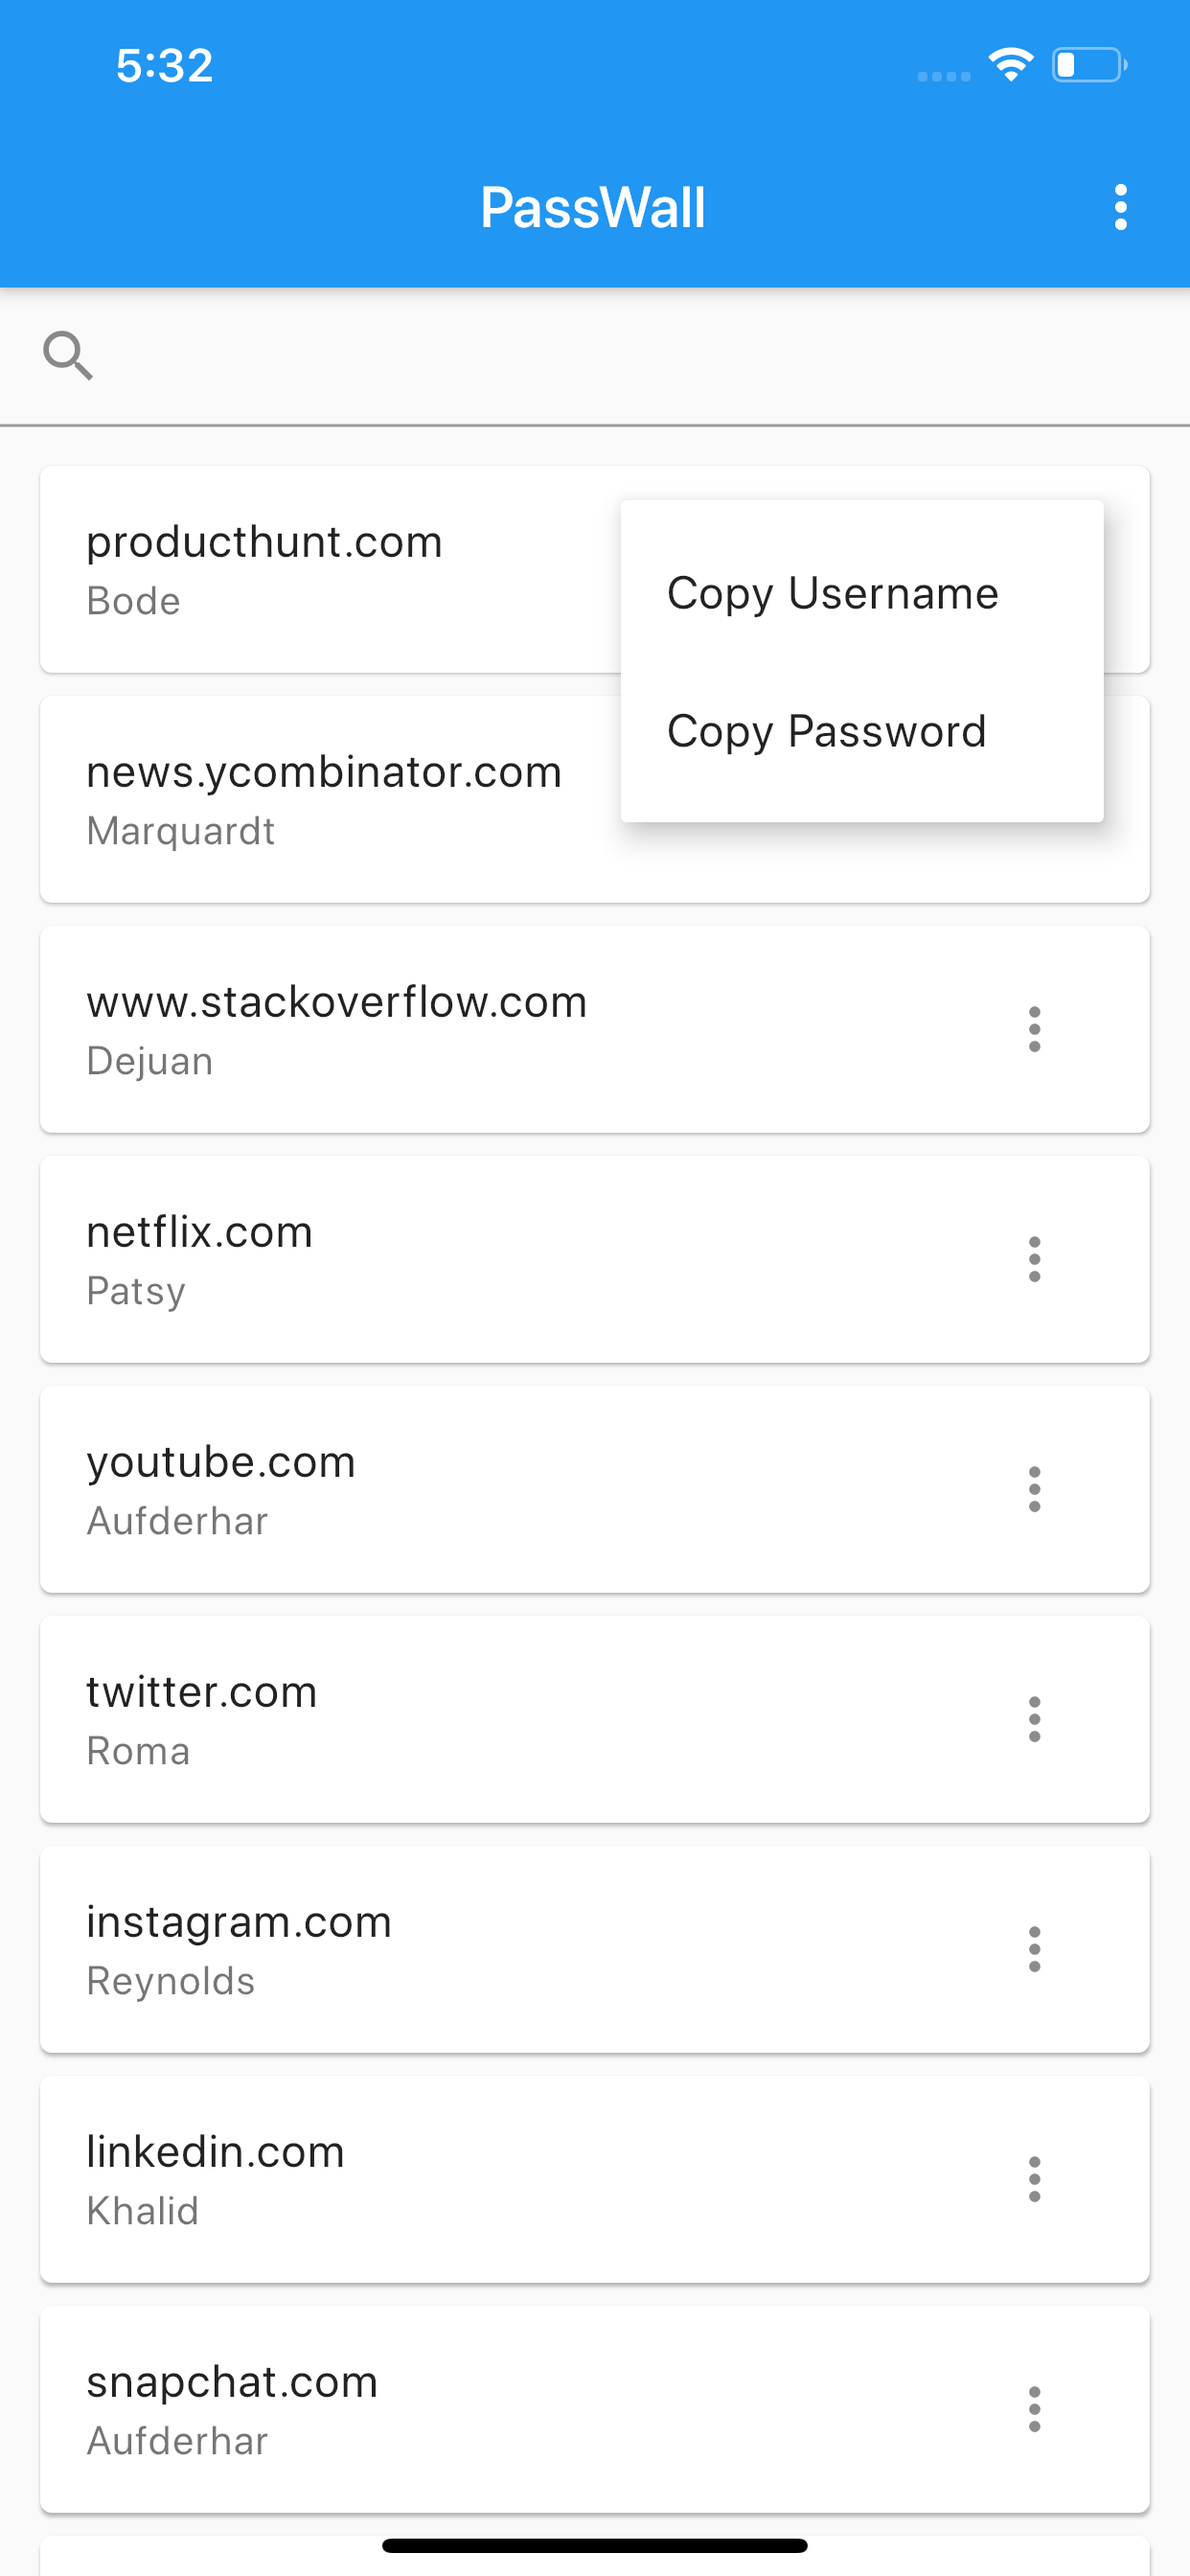
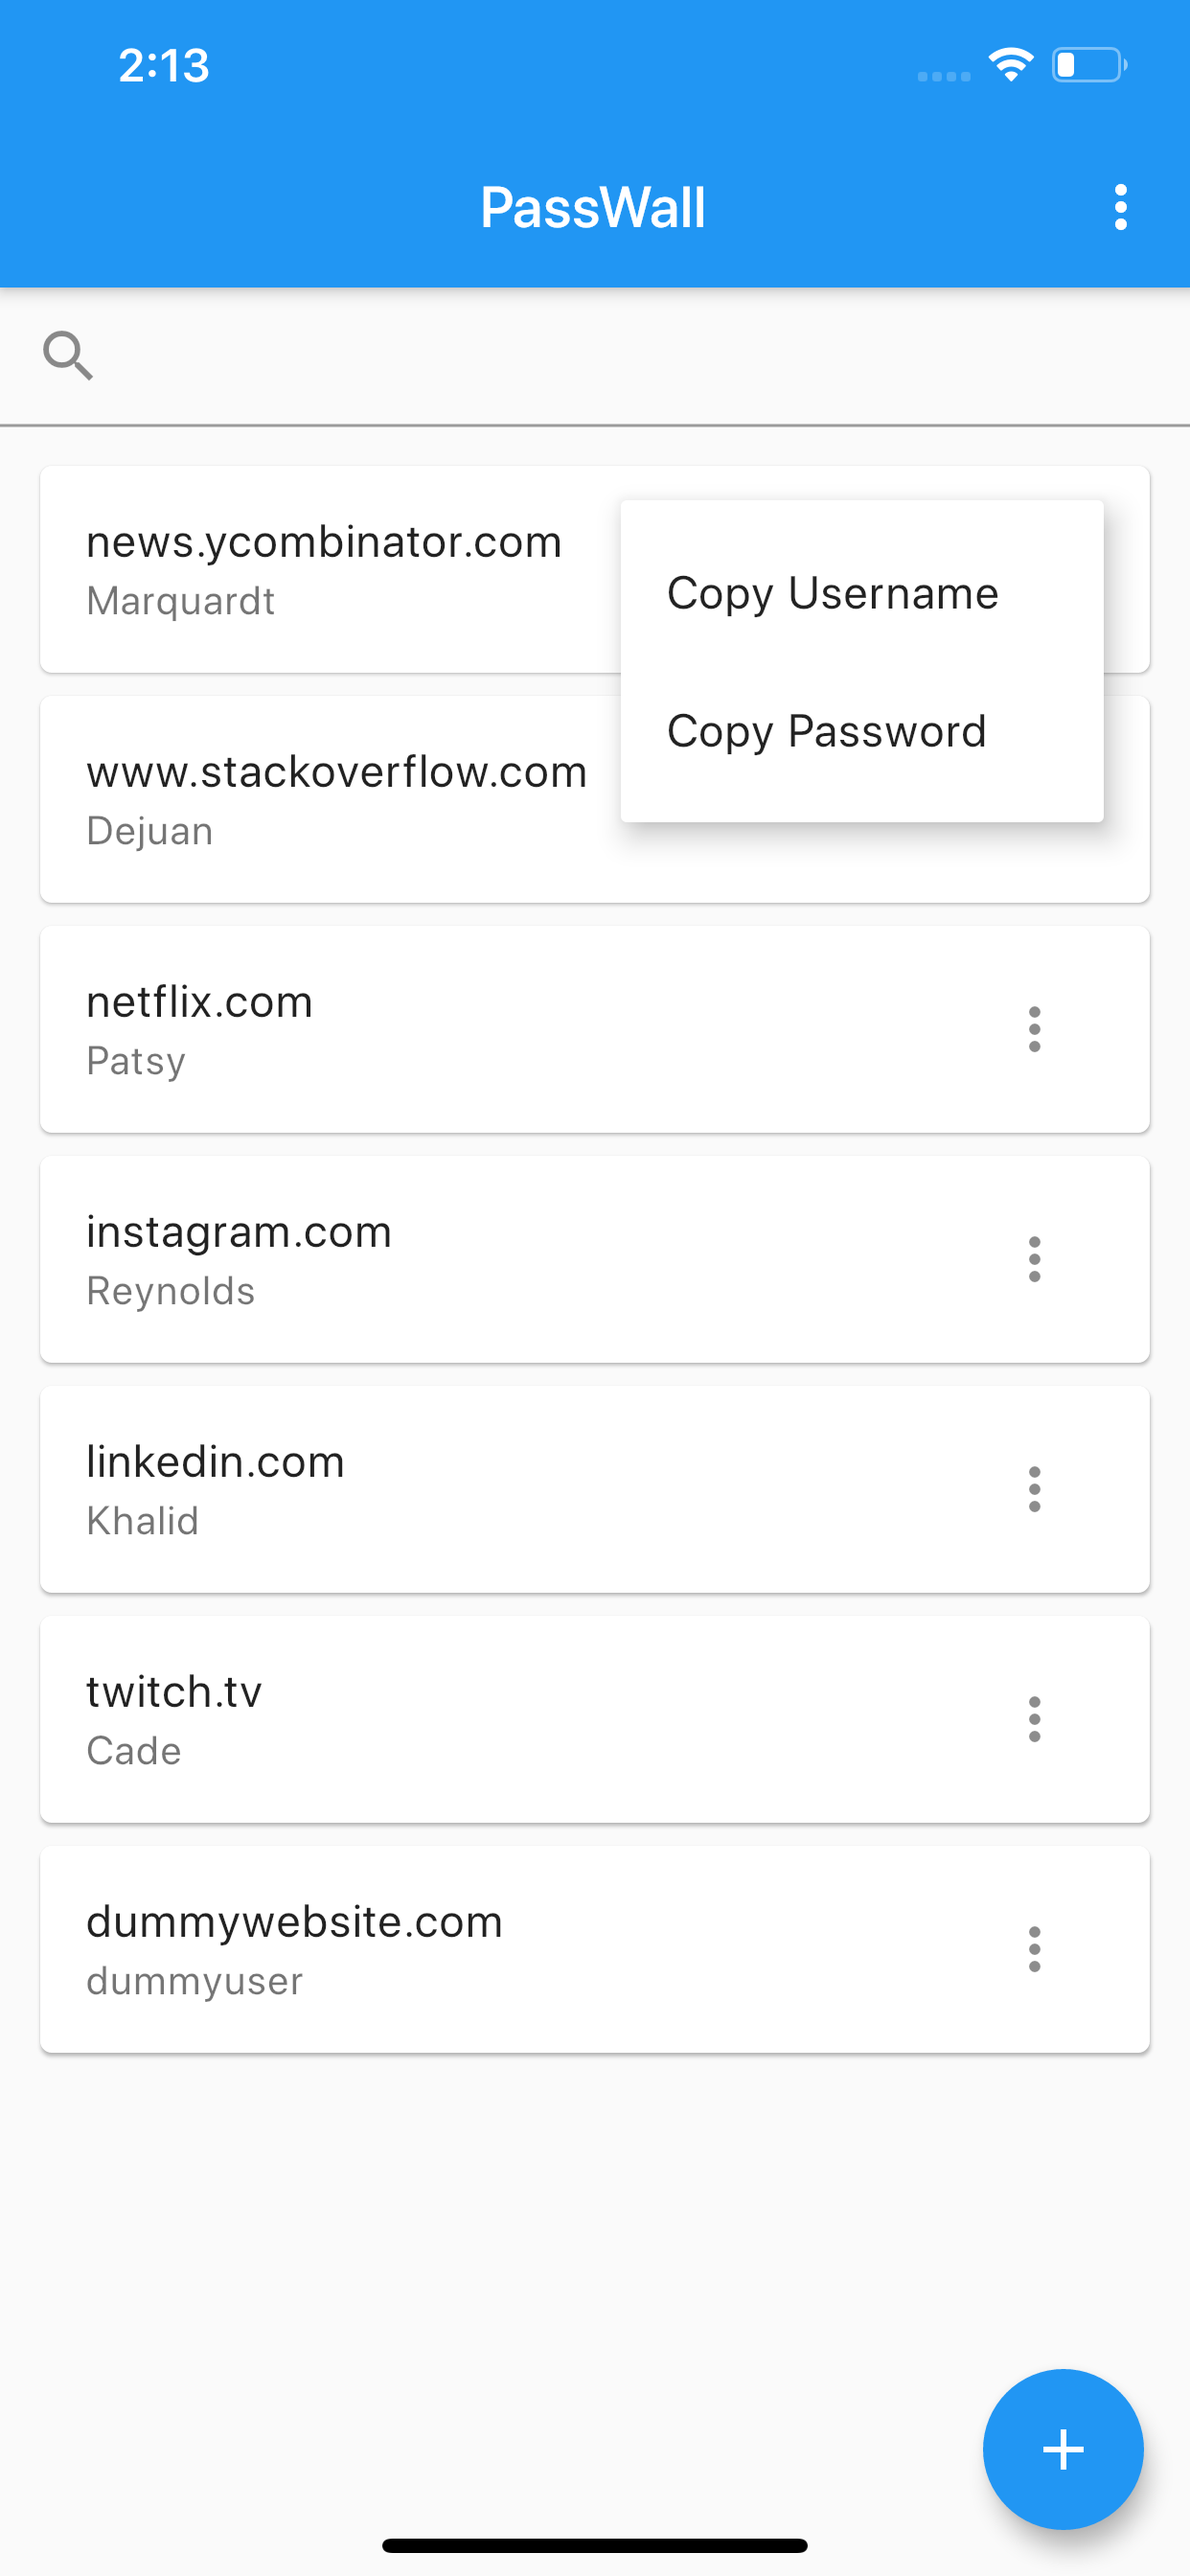
Create new credential

diff --git a/lib/home_page.dart b/lib/home_page.dart
@@ -65,9 +65,7 @@ class _HomePageState extends State<HomePage> {
           children: <Widget>[
             TextField(
               autocorrect: false,
-              decoration: InputDecoration(
-                  prefixIcon: Icon(Icons.search)
-              ),
+              decoration: InputDecoration(prefixIcon: Icon(Icons.search)),
               onChanged: (text) {
                 setState(() {
                   searchQuery = text;
@@ -153,6 +151,67 @@ class _HomePageState extends State<HomePage> {
           ],
         ),
       ),
+      floatingActionButton: FloatingActionButton(
+        child: Icon(Icons.add),
+        onPressed: creator,
+      ),
+    );
+  }
+
+  void creator() {
+    showDialog(
+      context: context,
+      builder: (BuildContext context) {
+        String title = "";
+        String username = "";
+        String password = "";
+        return AlertDialog(
+          title: Text("Create new credential"),
+          content: Column(
+            mainAxisSize: MainAxisSize.min,
+            children: <Widget>[
+              TextField(
+                autocorrect: false,
+                decoration: InputDecoration(labelText: "Title", hintText: "http://passwall.io"),
+                onChanged: (text) {
+                  title = text;
+                },
+              ),
+              TextField(
+                autocorrect: false,
+                decoration: InputDecoration(labelText: "Username"),
+                onChanged: (text) {
+                  username = text;
+                },
+              ),
+              TextField(
+                autocorrect: false,
+                decoration: InputDecoration(labelText: "Password", helperText: "Leave blank for a random password"),
+                onChanged: (text) {
+                  password = text;
+                },
+              )
+            ],
+          ),
+          actions: <Widget>[
+            FlatButton(
+              child: Text("CANCEL"),
+              textColor: Colors.red,
+              onPressed: () {
+                Navigator.of(context).pop();
+              },
+            ),
+            FlatButton(
+              child: Text("SAVE"),
+              onPressed: () async {
+                await Antenna().create(title: title, username: username, password: password);
+                Navigator.of(context).pop();
+                setState(() {});
+              },
+            ),
+          ],
+        );
+      },
     );
   }
 }

diff --git a/lib/antenna.dart b/lib/antenna.dart
@@ -5,9 +5,9 @@ import 'dart:io';
 import 'package:shared_preferences/shared_preferences.dart';
 
 class Antenna {
-
   /// This is the main function that the access token still valid.
   /// So we can understand user is authorized or not.
+  /// TODO: Must use every connection
   Future<bool> gateKeeper(String token) async {
     SharedPreferences preferences = await SharedPreferences.getInstance();
     String server = preferences.getString("server") ?? "localhost:3625";
@@ -20,7 +20,7 @@ class Antenna {
     // the header value. Fot that reason, we are trying to get response.
     try {
       response = await post(url, headers: headers);
-    } catch(e) {
+    } catch (e) {
       print(e);
       return false;
     }
@@ -41,7 +41,6 @@ class Antenna {
 
     Map<String, dynamic> answer = jsonDecode(response.body);
     print(answer["message"] ?? answer["token"]);
-
 
     if (response.statusCode == 200) {
       preferences.setString("token", answer["token"]);
@@ -80,5 +79,16 @@ class Antenna {
     String url = "http://$server/logins/$id";
     Map<String, String> headers = {HttpHeaders.authorizationHeader: "Bearer $token"};
     await delete(url, headers: headers);
+  }
+
+  create({String title = "", String username = "", String password}) async {
+    SharedPreferences preferences = await SharedPreferences.getInstance();
+    String server = preferences.getString("server");
+    String token = preferences.getString("token");
+    String url = "http://$server/logins/";
+    Map<String, String> headers = {HttpHeaders.authorizationHeader: "Bearer $token", HttpHeaders.contentTypeHeader: "application/json"};
+    String body = jsonEncode({"URL": title, "Username": username, "Password": password});
+    Response response = await post(url, headers: headers, body: body);
+    print("Create: " + response.statusCode.toString());
   }
 }

diff --git a/README.md b/README.md
@@ -12,7 +12,7 @@ Do not forget the  `flutter pub get`
 
 ## Mile Stones
 
-- [x] v0.1.0 Waking-Up
+- [x] v0.1.0 Waking Up
 	- [x] Authentication
 		- [x] Login
 		- [x] Check token. If valid, redirect to main screen
@@ -20,13 +20,14 @@ Do not forget the  `flutter pub get`
 	- [x] Get all credentials *(Url or Title, Username and Password)* and list them on the main screen
 	- [x] Search in credentials
 	- [x] Copy password
-- [ ] v0.2.0 Talenting
+- [ ] v0.2.0 Growing Up
 	- [x] Pull to refresh in main screen
 	- [x] Swipe to delete credential
 	- [ ] Update credential
-	- [ ] Create new credential
+	- [x] Create new credential
 	- [ ] Generate password
 	- [ ] Order the list
+	- [ ] Keeping logs
 - [ ] v0.3.0 Trading
 	- [ ] Export credential
 	- [ ] Import credential
